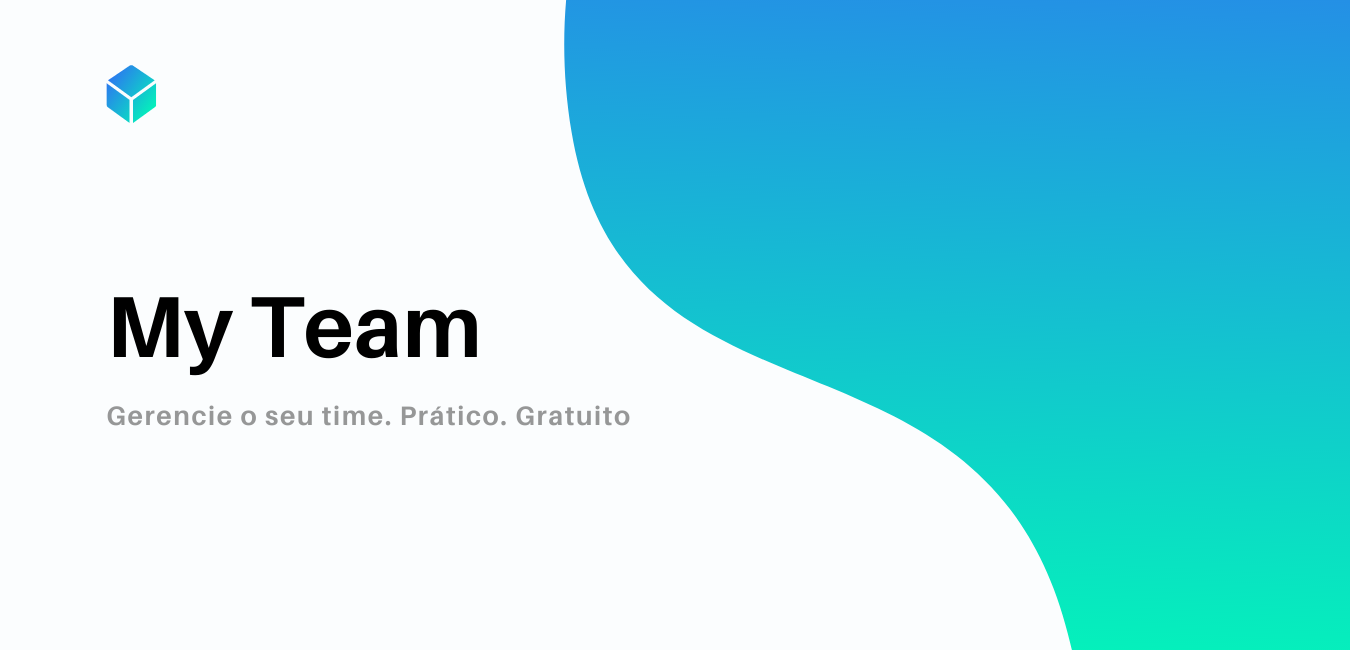
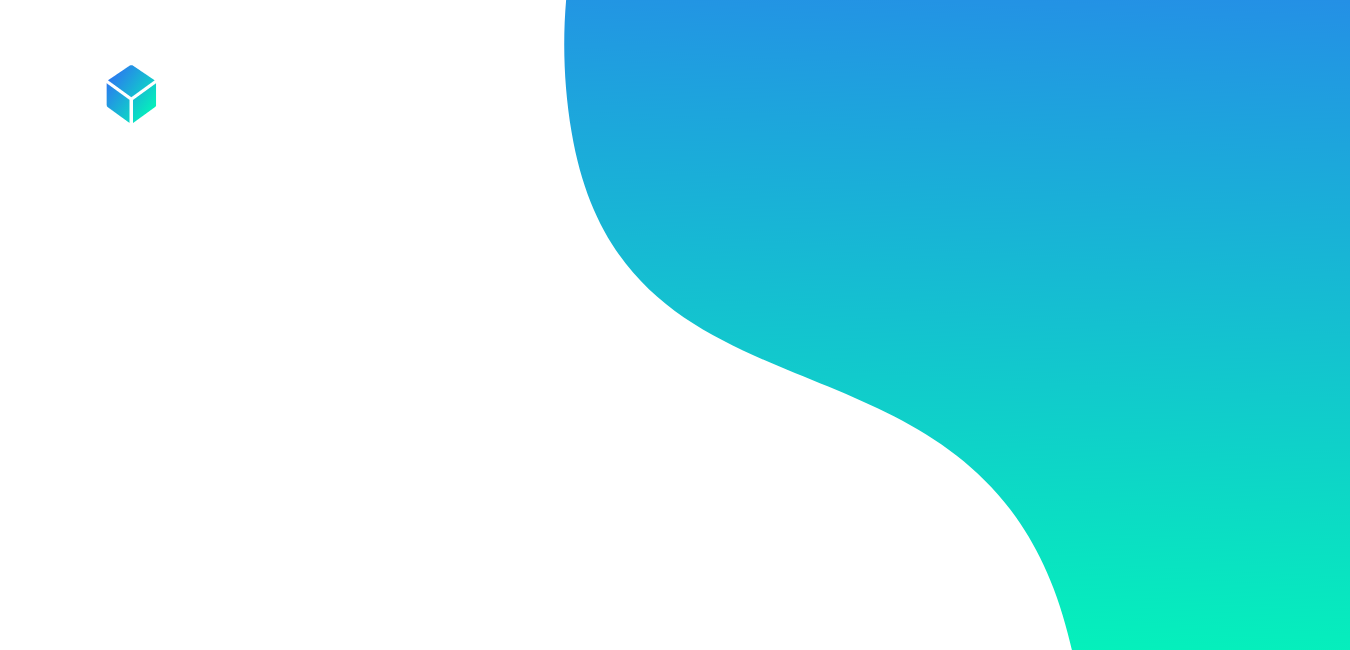
Configurando css

Changed region(s): [[0.0622, 0.4308, 0.3733, 0.5846], [0.0622, 0.6154, 0.4667, 0.6769]]

diff --git a/app/assets/stylesheets/public.scss b/app/assets/stylesheets/public.scss
@@ -3,8 +3,50 @@
 // You can use Sass (SCSS) here: http://sass-lang.com/
 
 body{
-    background-image: url(../images/index.png);
+    background: image-url('index.png') no-repeat;
     background-size: cover;
     height: 100vh;
     background-position: left;
+}
+
+h1{
+    color:black;
+    font-size: 100px;
+}
+
+h3{
+    color: black;
+    opacity: 0.8;
+}
+
+h4{
+    color: #1B1B1D;
+    opacity: 0.6;
+    font-size: 20px;
+}
+
+.logo{
+    width: 100%;
+    height: 100%;
+}
+
+.div-texto{
+    margin-top: 10%;
+    width: 50%;
+    margin-bottom: 5%;
+}
+
+.btn-submit{
+    padding: 20px;
+    width: 35%;
+    display: flex;
+    justify-content: center;
+    align-items: center;
+    background-color:#0DD199;
+    font-size: 20px;
+    border-radius: 30px;
+}
+
+.efeitoText:hover{
+    opacity: 1;
 }

diff --git a/app/assets/stylesheets/form.scss b/app/assets/stylesheets/form.scss
@@ -1,0 +1,41 @@
+.cabecalho-new-titulo{
+  color: white;
+  text-decoration: none;
+  cursor: pointer;
+  justify-content: center;
+}
+.form-container{
+  display: flex;
+  justify-content: center;
+  align-items: center;
+
+}
+
+.form-titulo{
+  padding-left: 10%;
+}
+
+.btn-form{
+  display: block;
+  background-color: #17dba4;
+  width: 100%;
+  border: 0;
+  border-radius: 5px;
+  height: 40px;
+  padding: 0px 20px;
+  cursor: pointer;
+  box-sizing: border-box;
+}
+
+.form-input{
+  display: block;
+  width: 450px;
+  background-color: white;
+  height: 20px;
+  border-radius: 5px;
+  border: 1px solid #ddd;
+  margin: 10px 0 0 0;
+  padding: 20px;
+  box-sizing: border-box;
+}
+

diff --git a/app/assets/stylesheets/header.scss b/app/assets/stylesheets/header.scss
@@ -1,0 +1,38 @@
+.cabecalho{
+  display: flex;
+  width:100%;
+  float: left;
+  padding: 5% 8%;
+  background-color: none;
+  height: 30%;
+}
+
+.btns{
+  display: flex;
+  margin-left: 70%;
+}
+
+.btn-cabecalho{
+  margin-top: 18px;
+  margin-left: 20px;
+  height: 45px;
+  width: 140px;
+
+  background-color: #15cdca;
+  cursor: pointer;
+  border: none;
+  outline: none;
+  font-size: 15px;
+  text-decoration: none;
+}
+
+.efeito:hover{
+  background-color: #1B1B1D;
+  color: white;
+}
+
+.titulo{
+  color: #1B1B1D;
+  text-decoration: none;
+  cursor: pointer;
+}

diff --git a/app/assets/stylesheets/application.css b/app/assets/stylesheets/application.css
@@ -10,6 +10,7 @@
  * files in this directory. Styles in this file should be added after the last require_* statement.
  * It is generally better to create a new file per style scope.
  *
- *= require_tree .
+
  *= require_self
  */
+

diff --git a/app/controllers/funcionarios_controller.rb b/app/controllers/funcionarios_controller.rb
@@ -1,13 +1,8 @@
 class FuncionariosController < ApplicationController
-    before_action :authenticate_user!, except: [:index, :show, :new, :destroy, :create]
+    before_action :authenticate_user!, except: [:index, :new, :destroy, :create]
 
     def index
-        @funcionarios = Funcionario.all.limit 5
-    end
-
-    def show
-        id = params[:id];
-        @funcionario = Funcionario.find(id)
+        @funcionarios = Funcionario.all
     end
 
     def new

diff --git a/config/application.rb b/config/application.rb
@@ -11,5 +11,11 @@ module TestLivima
     # Settings in config/environments/* take precedence over those specified here.
     # Application configuration should go into files in config/initializers
     # -- all .rb files in that directory are automatically loaded.
+
+    # IMAGES
+    config.assets.paths << Rails.root.join("app", "assets", "images")
+    config.assets.precompile += %w( .png .jpg .jpeg .svg)
+
+    
   end
 end

diff --git a/config/initializers/assets.rb b/config/initializers/assets.rb
@@ -9,3 +9,9 @@ Rails.application.config.assets.version = '1.0'
 # Precompile additional assets.
 # application.js, application.css, and all non-JS/CSS in app/assets folder are already added.
 # Rails.application.config.assets.precompile += %w( search.js )
+
+# Precompila os css do meu projeto
+Rails.application.config.assets.precompile += %w(
+  header.scss
+  funcionarios.scss
+)

diff --git a/config/routes.rb b/config/routes.rb
@@ -2,5 +2,6 @@ Rails.application.routes.draw do
   devise_for :users, :controllers => { registrations: 'registrations'}
 
   root to: "public#index";
-  resources :funcionarios, only:[:index, :show, :new, :create, :update, :destroy];
+  resources :funcionarios, only:[:index, :new, :create, :update, :destroy];
+  get "public/about", to: "public#about", as: :about_public;
 end

diff --git a/app/controllers/public_controller.rb b/app/controllers/public_controller.rb
@@ -1,4 +1,7 @@
 class PublicController < ApplicationController
     def index
     end
+
+    def about
+    end
 end
